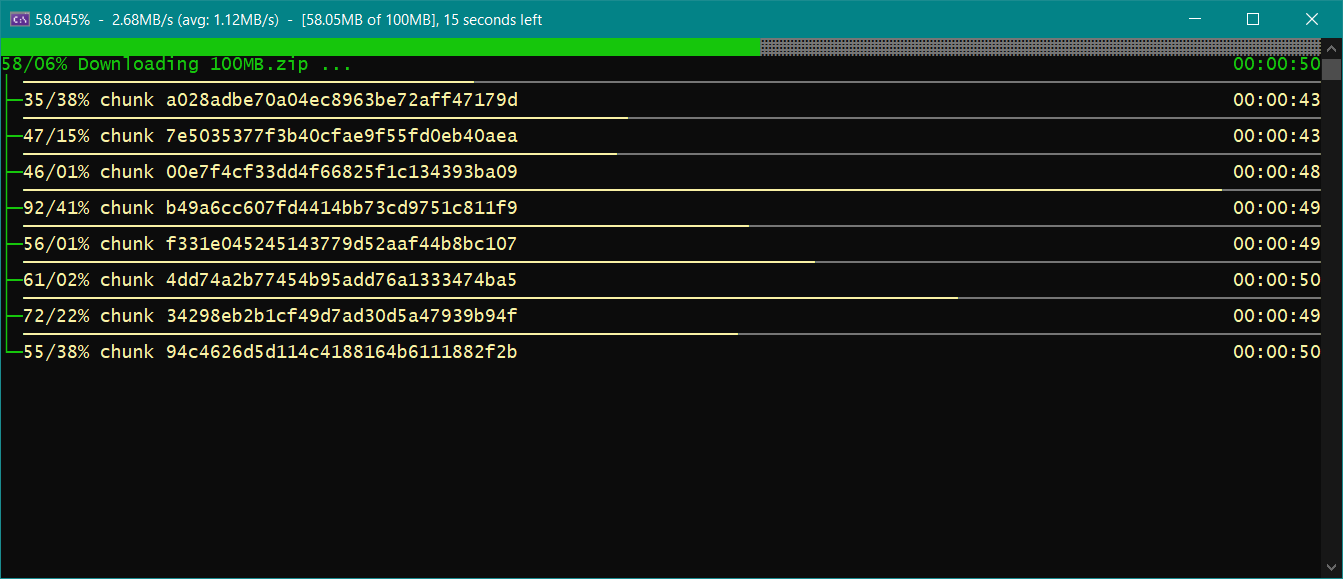
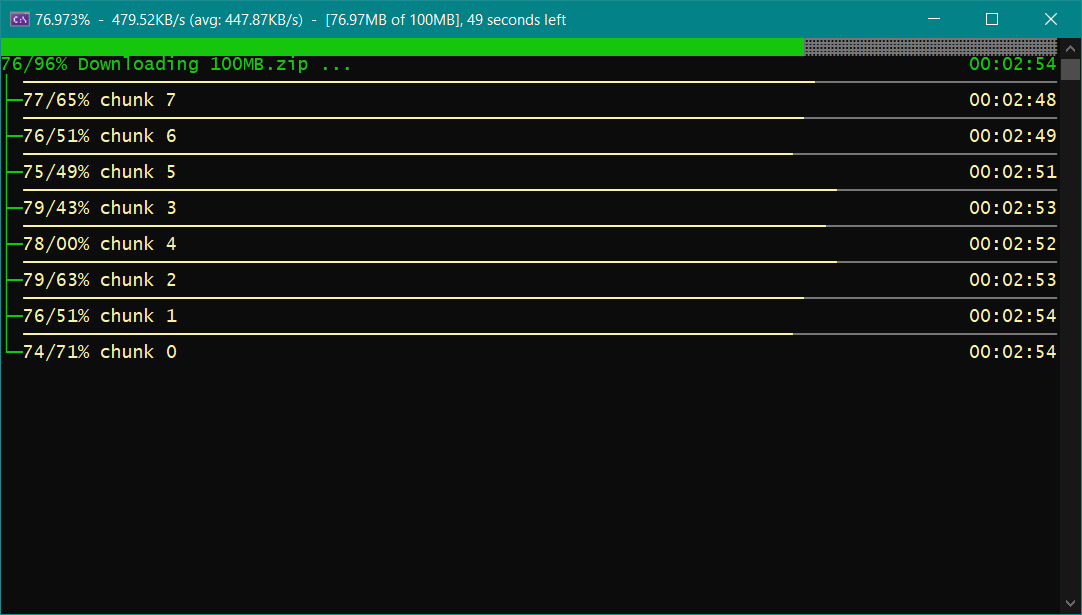
Changed chunk id to simple numerical name

Changed region(s): [[0.0, 0.0, 1.0, 0.6218], [0.976, 0.9637, 1.0, 0.9948]]

diff --git a/src/Downloader/ChunkHub.cs b/src/Downloader/ChunkHub.cs
@@ -33,15 +33,16 @@ namespace Downloader
                 bool isLastChunk = i == parts - 1;
                 long startPosition = i * chunkSize;
                 long endPosition = (isLastChunk ? fileSize : startPosition + chunkSize) - 1;
-                chunks[i] = GetChunk(startPosition, endPosition);
+                chunks[i] = GetChunk(i.ToString(), startPosition, endPosition);
             }
 
             return chunks;
         }
 
-        private Chunk GetChunk(long start, long end)
+        private Chunk GetChunk(string id, long start, long end)
         {
             var chunk = new Chunk(start, end) {
+                Id = id,
                 MaxTryAgainOnFailover = _configuration.MaxTryAgainOnFailover,
                 Timeout = _configuration.Timeout
             };

diff --git a/src/Downloader/Chunk.cs b/src/Downloader/Chunk.cs
@@ -15,7 +15,7 @@ namespace Downloader
             Position = 0;
         }
 
-        public string Id { get; }
+        public string Id { get; set; }
         public long Start { get; }
         public long End { get; }
         public long Position { get; set; }
